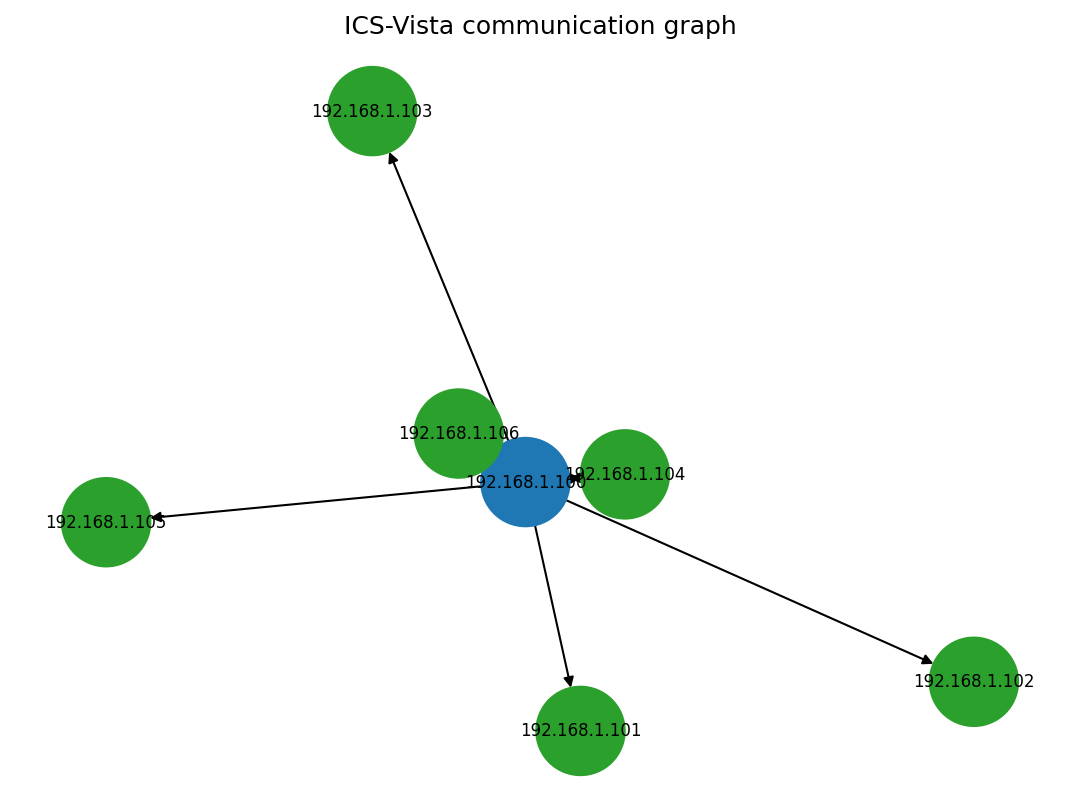
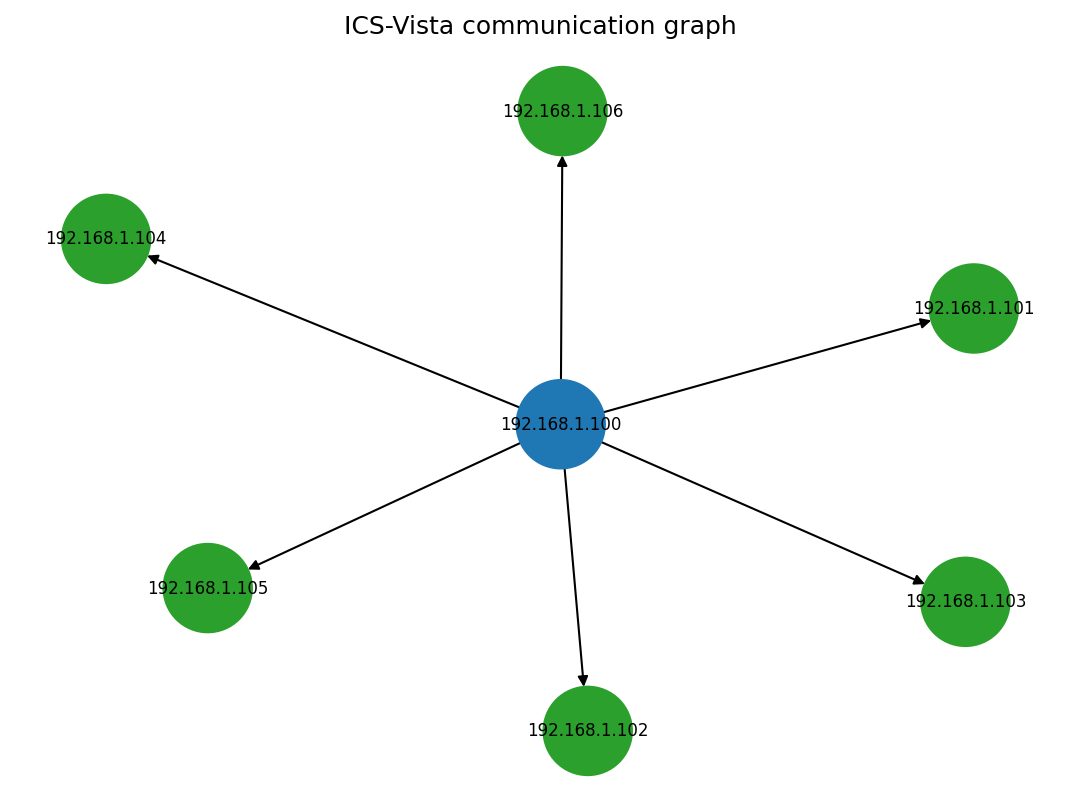
Updated for false alerts

diff --git a/ics_decoders.py b/ics_decoders.py
@@ -103,3 +103,30 @@ def flow_direction(sport, dport):
     if s_ok:
         return PORTS[sport], False
     return None
+
+
+# ---------------- signature checks (used for UDP, where ports alone are unreliable) ----------------
+_OPC_TYPES = {b"HEL", b"ACK", b"OPN", b"MSG", b"CLO", b"ERR", b"RHE"}
+_ENIP_CMDS = {0x0004, 0x0063, 0x0064, 0x0065, 0x0066, 0x006F, 0x0070}
+
+
+def looks_like(proto, p):
+    """True if the payload plausibly belongs to the protocol (header signature + length check).
+    This stops DNS/NTP/VPN packets with an unlucky random port from being counted as ICS traffic."""
+    if proto == "Modbus":
+        return len(p) >= 8 and p[2] == 0 and p[3] == 0 and int.from_bytes(p[4:6], "big") == len(p) - 6
+    if proto == "S7comm":
+        return len(p) >= 7 and p[0] == 0x03 and p[1] == 0x00 and int.from_bytes(p[2:4], "big") == len(p)
+    if proto == "DNP3":
+        return len(p) >= 10 and p[0] == 0x05 and p[1] == 0x64
+    if proto == "EtherNet/IP":
+        if (len(p) >= 24 and int.from_bytes(p[0:2], "little") in _ENIP_CMDS
+                and int.from_bytes(p[2:4], "little") == len(p) - 24):
+            return True
+        # implicit I/O on UDP 2222: item count 2, sequenced/connected address item
+        return (len(p) >= 8 and int.from_bytes(p[0:2], "little") == 2
+                and int.from_bytes(p[2:4], "little") in (0x8002, 0x00A1))
+    if proto == "OPC UA":
+        return (len(p) >= 8 and p[0:3] in _OPC_TYPES and chr(p[3]) in "FCA"
+                and int.from_bytes(p[4:8], "little") == len(p))
+    return False

diff --git a/run_all.py b/run_all.py
@@ -79,6 +79,23 @@ else:
     reason = "no ground truth file found" if not have_gt else "step 1 failed"
     print(f"\nSkipping evaluation: {reason} (looked for {gt_src})")
     results["2. Evaluation"] = None
+    inv_path = os.path.join(outdir, "inventory.csv")
+    if not have_gt and results["1. Discovery + roles"] and os.path.exists(inv_path):
+        import csv
+        gt_dir = os.path.join(HERE, "ground_truth")
+        os.makedirs(gt_dir, exist_ok=True)
+        tpl_path = os.path.join(gt_dir, name + "_TEMPLATE.csv")
+        with open(inv_path, newline="", encoding="utf-8") as f_in, \
+                open(tpl_path, "w", newline="", encoding="utf-8") as f_out:
+            w = csv.writer(f_out)
+            w.writerow(["ip", "true_role"])
+            for row in csv.DictReader(f_in):
+                w.writerow([row["ip"], ""])
+        print(f"\nCreated a ground-truth TEMPLATE: {tpl_path}")
+        print("  Fill the true_role column from Wireshark (NOT from the tool's predictions),")
+        print("  add any ICS device the tool missed, then rename it to:")
+        print(f"  {os.path.join(gt_dir, name + '.csv')}")
+        print("  Roles: field_controller, supervisory, engineering_workstation")
 
 results["3. False alerts"] = run("STEP 3: False-alert test", "alerts.py", [pcap])
 

diff --git a/alerts.py b/alerts.py
@@ -6,7 +6,7 @@ import sys, warnings
 warnings.filterwarnings("ignore")
 from collections import defaultdict
 from scapy.all import PcapReader, IP, TCP, UDP
-from ics_decoders import PORTS, request_kind, flow_direction
+from ics_decoders import PORTS, request_kind, flow_direction, looks_like
 
 SERVER_RATIO_MIN = 0.80
 WRITE_SHARE_ENG = 0.05
@@ -29,9 +29,9 @@ with PcapReader(sys.argv[1]) as reader:
         if src.startswith("127.") or dst.startswith("127."):
             continue
         if TCP in pkt:
-            l4 = pkt[TCP]
+            l4, is_udp = pkt[TCP], False
         elif UDP in pkt:
-            l4 = pkt[UDP]
+            l4, is_udp = pkt[UDP], True
         else:
             continue
         payload = bytes(l4.payload)
@@ -41,6 +41,8 @@ with PcapReader(sys.argv[1]) as reader:
         if flow is None:
             continue
         proto, is_req = flow
+        if is_udp and not looks_like(proto, payload):   # e.g. DNS with an unlucky port
+            continue
         client, server = (src, dst) if is_req else (dst, src)
         kind = request_kind(proto, payload) if is_req else None
         events.append((float(pkt.time), client, server, kind, is_req))

diff --git a/ics_vista.py b/ics_vista.py
@@ -7,7 +7,7 @@ from collections import defaultdict
 from statistics import mean, pstdev
 from scapy.all import PcapReader, IP, TCP, UDP, Ether
 import pandas as pd
-from ics_decoders import PORTS, request_kind, flow_direction
+from ics_decoders import PORTS, request_kind, flow_direction, looks_like
 
 # ---------------- settings you can tune ----------------
 SERVER_RATIO_MIN = 0.80   # share of ICS payload packets sent as server -> field controller
@@ -44,9 +44,9 @@ with PcapReader(sys.argv[1]) as reader:
             continue
 
         if TCP in pkt:
-            l4 = pkt[TCP]
+            l4, is_udp = pkt[TCP], False
         elif UDP in pkt:
-            l4 = pkt[UDP]
+            l4, is_udp = pkt[UDP], True
         else:
             continue
 
@@ -58,6 +58,8 @@ with PcapReader(sys.argv[1]) as reader:
         if flow is None:
             continue
         proto, is_request = flow
+        if is_udp and not looks_like(proto, payload):   # e.g. DNS with an unlucky port
+            continue
         client, server = (src, dst) if is_request else (dst, src)
 
         if Ether in pkt:

diff --git a/test_decoders.py b/test_decoders.py
@@ -7,7 +7,7 @@ import sys, warnings
 warnings.filterwarnings("ignore")
 from collections import Counter
 from scapy.all import PcapReader, TCP, UDP
-from ics_decoders import PORTS, request_kind, flow_direction
+from ics_decoders import PORTS, request_kind, flow_direction, looks_like
 
 if len(sys.argv) < 2:
     print("Usage: python test_decoders.py <file.pcap>")
@@ -29,7 +29,7 @@ with PcapReader(sys.argv[1]) as reader:
             continue
         census[(transport, min(l4.sport, l4.dport))] += 1   # lower port = likely the service
         flow = flow_direction(l4.sport, l4.dport)
-        if flow and flow[1]:
+        if flow and flow[1] and not (transport == "UDP" and not looks_like(flow[0], payload)):
             proto = flow[0]
             kinds[(proto, request_kind(proto, payload) or "other")] += 1
 
